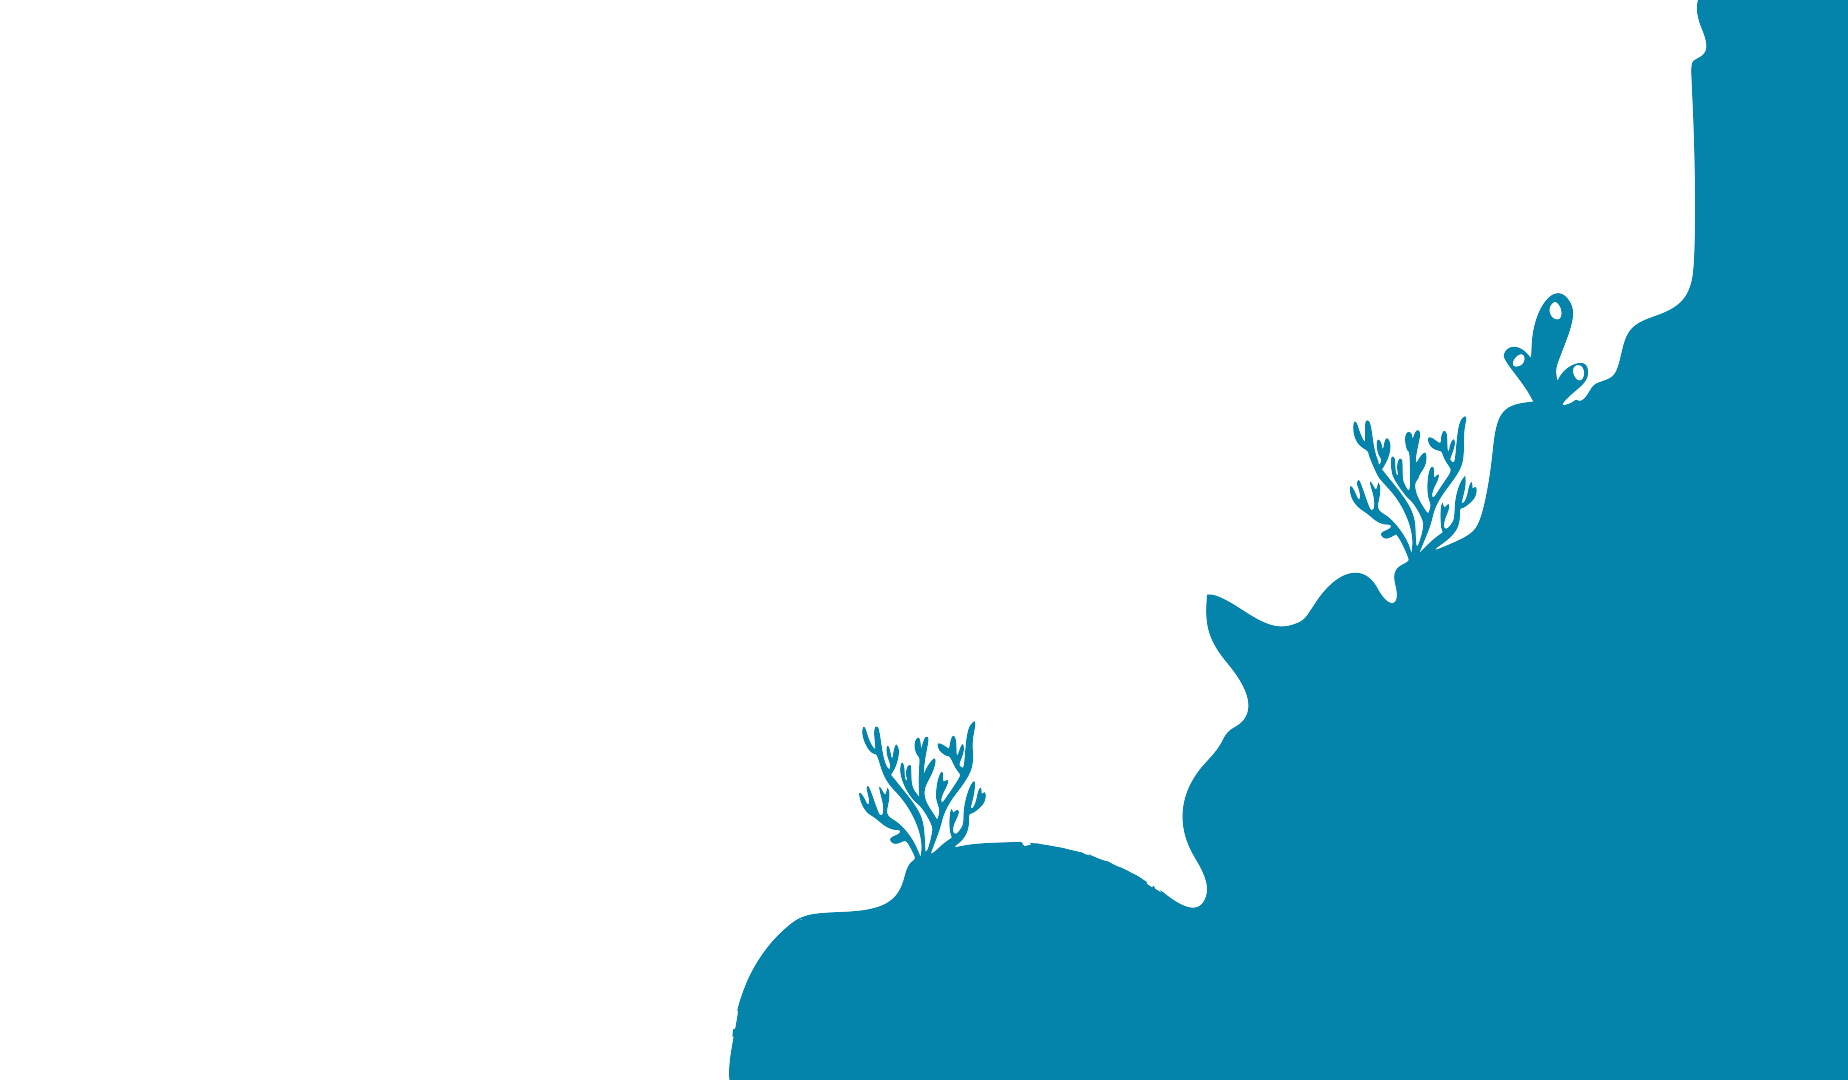
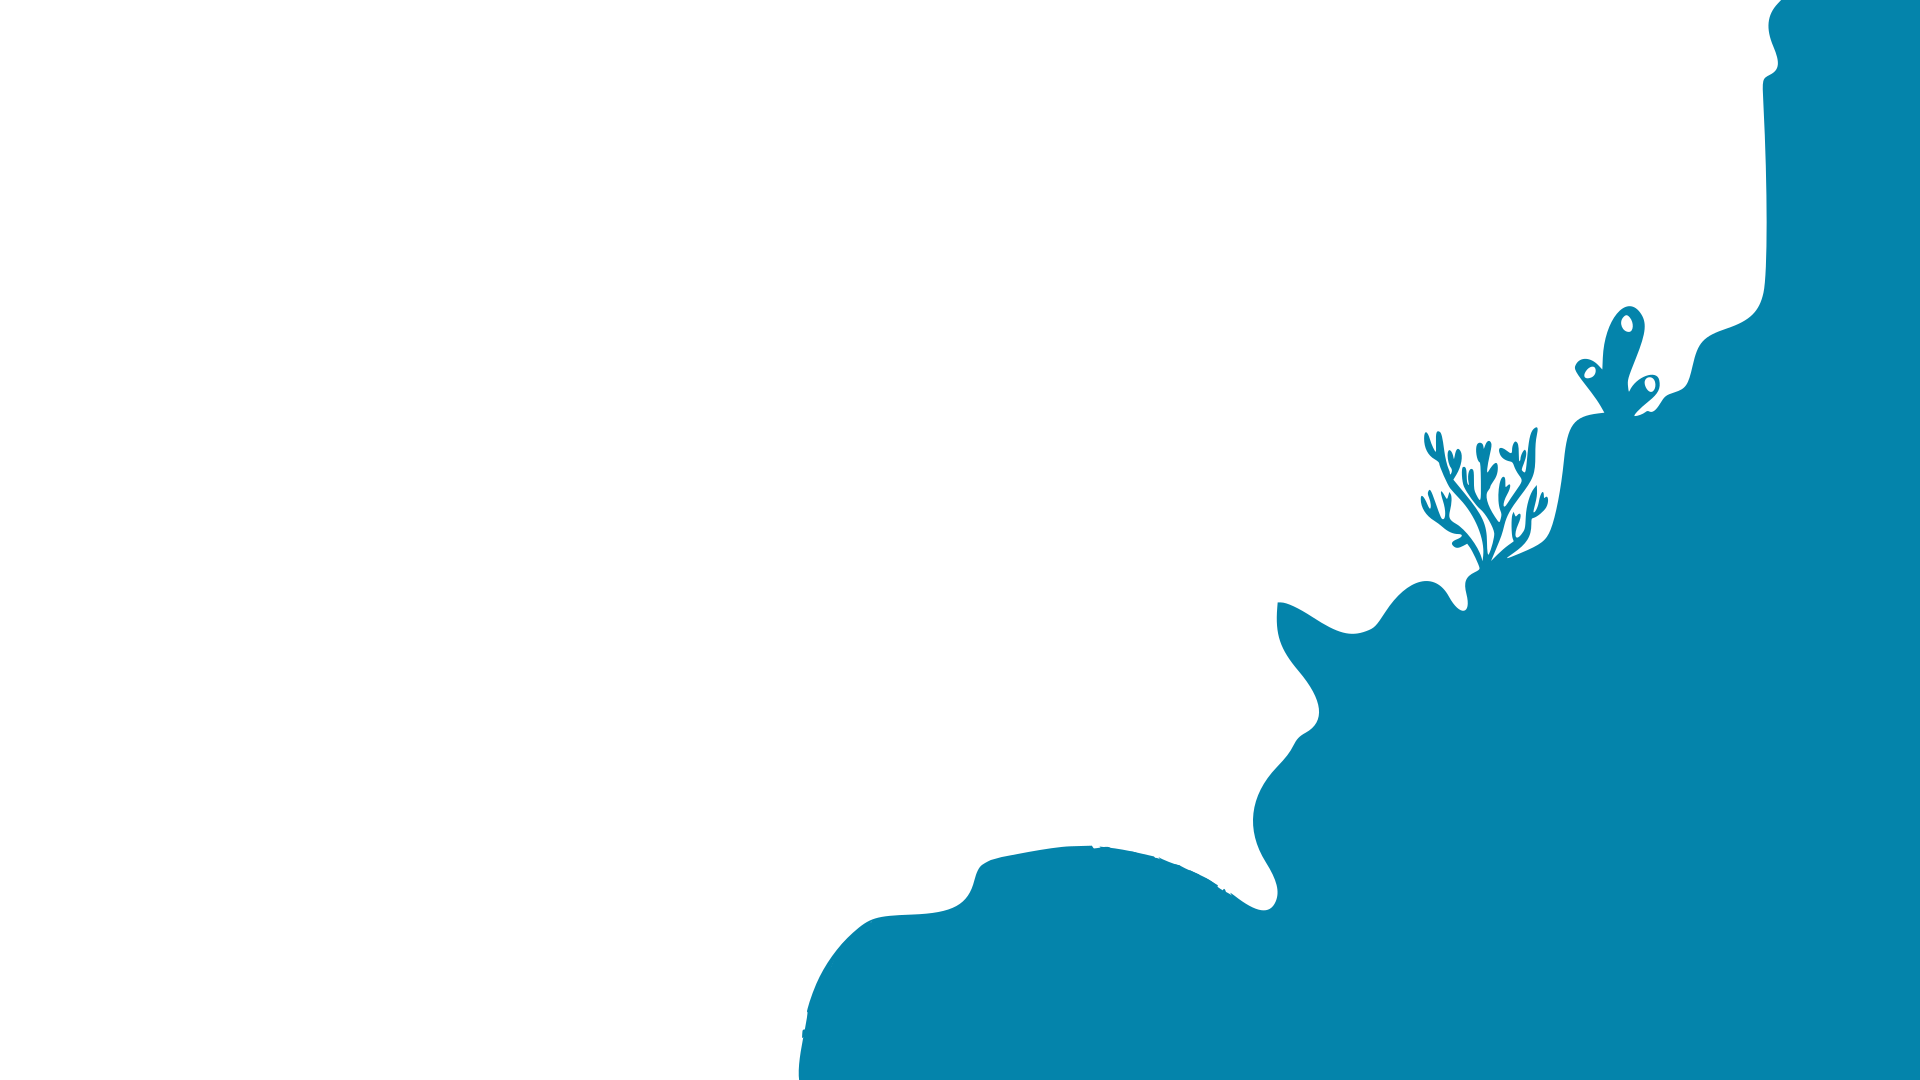
fixed the autoscroll name further and some adjustments to the list and one image layer.

Changed region(s): [[0.586, 0.1222, 0.9253, 0.8556], [0.3701, 0.6722, 0.5552, 1.0], [0.8945, 0.0, 0.9253, 0.0917]]

diff --git a/index.html b/index.html
@@ -32,7 +32,7 @@
                 <div class="name-bar" style="display: inline-flex;">
                     <div style="display: inline-block; padding-bottom: 20px;"><span>&copy;</span></div>
                     <div class="btn btn-link btn-left-top" style="display: inline-block;">
-                        <a href="https://namith.vercel.app" class="btn-click" style="display: flex; align-items: center; justify-content: center;">
+                        <a  class="btn-click" style="display: flex; align-items: center; justify-content: center;">
                             <span class="btn-text" style="display: flex; align-items: center; justify-content: center; padding-bottom: 20px;">
                                 <div class="cbn" style="display: flex; align-items: center; justify-content: center;">
                                     <span class="code-by" style="text-align: center;">Created By </span>
@@ -56,15 +56,18 @@
         </div>
 
         <div id="hero">  
-          <img src="img/path0.png" class="parallax-layer layer" data-speed="0.1" style="z-index: 2;"/>
+          <img src="img/path0.png" class="parallax-layer layer" data-speed="0" style="z-index: 2;"/>
           <img src="img/path1.png" class="parallax-layer layer" data-speed="0.2" style="z-index: 3;"/>
-          <div class="scroll-container">
-            <h1 class="autoscroll" style="margin: 0;">NAMITH NIMLAKA - Sofware Developer</h1>
+          <div class="big-name">
+              <div class="name-wrap">
+                <h1 class="no-select"> Namith Nimlaka - Software Developer -</h1>
+              </div>
           </div>
-          <img src="img/path3.png" class="parallax-layer layer" data-speed="0.4" style="z-index: 4;"/>
+
+          <img src="img/path3.png" class="parallax-layer layer" data-speed="0.3" style="z-index: 4;"/>
           <div style="z-index: 5;" class="parallax-layer layerspecial">
             <img src="img/path23.png" class="parallax-layer layerspecial" data-speed="0.6" style="z-index: 5;"/>
-            <div style="background-color: #024a6b; width: 100%; height: 700px; bottom: -695px; position: absolute; justify-content: center; align-items: center; font-size: x-large;" class="parallax-layer" data-speed="0.6" style="z-index: 5;" >
+            <div style="background-color: #024a6b; width: 100%; height: 1200px; bottom: -1195px; position: absolute; justify-content: center; align-items: center; font-size: x-large;" class="parallax-layer" data-speed="0.6" style="z-index: 5;" >
             </div>
           </div>
          </div>
@@ -75,26 +78,26 @@
     <div id="page2">
 
         <div id="content-page2">
-          <h1 style="margin-left: 5%; margin-right: 5%; font-size: medium;">Projects </h1>
-          <div style="margin-left: 5%; margin-right: 5%;" class="item-line"></div>
+          <h1 style="font-size: x-large; font-style: bold;">Projects </h1>
+          <div class="project-line"></div>
         </div>
 
-        <div class="item-list">
-          <div class="item" data-image="img/app.jpg">
-            <div class="item-name">OutWork</div>
-            <div class="item-line"></div>
+        <div class="project-list">
+          <div class="project" data-image="img/app.jpg">
+            <div class="project-name">OutWork</div>
+            <div class="project-line"></div>
           </div>
-          <div class="item" data-image="img/me.jpg">
-            <div class="item-name">SEMS</div>
-            <div class="item-line"></div>
+          <div class="project" data-image="img/me.jpg">
+            <div class="project-name">SEMS</div>
+            <div class="project-line"></div>
           </div>
-          <div class="item" data-image="path/to/mobot-image.jpg">
-            <div class="item-name">MoBot</div>
-            <div class="item-line"></div>
+          <div class="project" data-image="path/to/mobot-image.jpg">
+            <div class="project-name">MoBot</div>
+            <div class="project-line"></div>
           </div>
-          <div class="item" data-image="path/to/modalicious-image.jpg">
-            <div class="item-name">Modalicious</div>
-            <div class="item-line"></div>
+          <div class="project" data-image="path/to/modalicious-image.jpg">
+            <div class="project-name">Modalicious</div>
+            <div class="project-line"></div>
           </div>
         </div>
       

diff --git a/autoscroll.js b/autoscroll.js
@@ -1,19 +1,59 @@
-gsap.registerPlugin(ScrollTrigger);
 
-const text = document.querySelector('.autoscroll');
-const container = document.querySelector('.scroll-container');
+function initScrollLetters() {
+  let direction = 1; // 1 = forward, -1 = backward scroll
+  const rollContainer = roll(".big-name .name-wrap", {duration: 40});
 
-let lastScrollTop = 0;
-let direction = 1;
-let position = -51.7; // first move to the end position
+  
+  // check the direction of the body and adjust the scrolling direction for the name 
+  const scroll = ScrollTrigger.create({
+    trigger: document.body,
+    onUpdate(scroller) {
+      if (scroller.direction !== direction) {
+        direction *= -1;
+        gsap.to(rollContainer, {timeScale: direction, overwrite: true});
+      }
+    }
+  });
 
-gsap.to (text,{
-  transform: `translateX(${position}%)`,
-  scrollTrigger: {
-    trigger: "#page1",
-    scroller: "body",
-    start: "top 0%",
-    end: "bottom 99%",
-    scrub: 5,
+  function roll(targets, vars) {
+    vars = vars || {};
+    vars.ease || (vars.ease = "none");
+    const tl = gsap.timeline({
+      repeat: -1,
+      onReverseComplete() { 
+        this.totalTime(this.rawTime() + this.duration() * 10);
+      }
+    });
+    
+    const elements = gsap.utils.toArray(targets);
+    const clones = elements.map(el => {
+      let clone = el.cloneNode(true);
+      el.parentNode.appendChild(clone);
+      return clone;
+    });
+
+    const positionClones = () => elements.forEach((el, i) => gsap.set(clones[i], {
+      position: "absolute",
+      overwrite: false,
+      top: el.offsetTop,
+      left: el.offsetLeft + el.offsetWidth
+    }));
+
+    positionClones();
+    elements.forEach((el, i) => tl.to([el, clones[i]], {xPercent: -100, ...vars}, 0));
+
+    window.addEventListener("resize", () => {
+      let time = tl.totalTime();
+      tl.totalTime(0);
+      positionClones();
+      tl.totalTime(time);
+    });
+
+    return tl;
   }
-});
+
+  rollContainer.play();
+}
+
+// Initialize the scroll letters effect
+initScrollLetters();

diff --git a/list.css b/list.css
@@ -1,46 +1,45 @@
 #content-page2 {
-    width: 100%;
+    width: 95%;
     text-align: start;
     justify-content: start;
     align-items: center;
-    margin-bottom: 10px;
     color: gray;
 }
 
-.item-list {
+.project-list {
     display: flex;
     flex-direction: column;
     justify-content: center;
     align-items: center;
     width: 95%;
-    overflow-y: auto;
+    overflow: hidden;
 }
 
-.item {
-    width: 95%;
+.project {
+    width: 100%;
     margin-bottom: 20px;
     justify-content: center;
     align-items: center;
     z-index: 1;
 }
 
-.item-name {
+.project-name {
     font-size: 8vw; /* Adjusted big font size */
     font-weight: bold;
     color: white;
     margin-bottom: 5px;
 }
 
-.item-line {
+.project-line {
     height: 2px; /* Line thickness */
     background-color: gray; /* Line color */
-    width: 95%;
+    width: 100%;
     z-index: 1;
 }
 
 /* Responsive design */
 @media (max-width: 600px) {
-    .item-name {
+    .project-name {
         font-size: 2em;
     }
 }

diff --git a/navbar.js b/navbar.js
@@ -43,9 +43,12 @@ document.addEventListener("DOMContentLoaded", function() {
 document.addEventListener("DOMContentLoaded", function() {
     const btnClick = document.querySelector('.name-bar');
     const cbd = document.querySelector('.cbn');
+    const cb = document.querySelector('.code-by');
+
+    cbWidth = cb.offsetWidth;
 
     btnClick.addEventListener('mouseenter', () => {
-        gsap.to(cbd, { x: -128, duration: 1, ease: "power1.inOut" }); // Adjust to ensure it stops before the copyright symbol
+        gsap.to(cbd, { x: -cbWidth, duration: 1, ease: "power1.inOut" }); // Adjust to ensure it stops before the copyright symbol
     });
 
     btnClick.addEventListener('mouseleave', () => {
@@ -64,7 +67,7 @@ document.addEventListener('DOMContentLoaded', function() {
         });
 
         element.addEventListener('mouseleave', () => {
-            gsap.to(element, { opacity: 0.6, duration: 0.3 });
+            gsap.to(element, { opacity: 0.8, duration: 0.3 });
         });
     });
     

diff --git a/list.js b/list.js
@@ -4,12 +4,12 @@ const cursor = document.querySelector('.cursor');
 const cursorDot = document.querySelector('.cursor-dot');
 const cursorCircle = document.querySelector('.cursor-circle');
 const cursorImage = document.querySelector('.cursor-image');
-const items = document.querySelectorAll('.item');
+const projects = document.querySelectorAll('.project');
 
-// Item hover effect
-items.forEach(item => {
-  item.addEventListener('mouseenter', () => {
-    const imageUrl = item.getAttribute('data-image');
+// project hover effect
+projects.forEach(project => {
+  project.addEventListener('mouseenter', () => {
+    const imageUrl = project.getAttribute('data-image');
     
     gsap.to(cursor, {
       width: 100,
@@ -47,7 +47,7 @@ items.forEach(item => {
     cursorImage.style.backgroundImage = `url(${imageUrl})`;
   });
 
-  item.addEventListener('mouseleave', () => {
+  project.addEventListener('mouseleave', () => {
 
     cursorImage.style.backgroundImage = `none`;
     gsap.to(cursor, {

diff --git a/styles.css b/styles.css
@@ -33,13 +33,13 @@ body {
 #page1 {    
     height: 100vh;
     width: 100%;
-    scrollbar-width: none; /* Hide default scrollbar in Firefox */
+    scrollbar-width: none;
 }
 
 #page2 {    
     height: auto;
     width: 100%;
-    scrollbar-width: none; /* Hide default scrollbar in Firefox */
+    scrollbar-width: none; 
     background-color: #024a6b;
     display: flex;
     flex-direction: column;
@@ -82,14 +82,14 @@ body {
 #hero {
     position: absolute;
     top: 0;
-    width: 100vw;
+    width: 100%;
     height: 100vh;
     z-index: -1;
 }
 
 .parallax-layer {
     position: absolute;
-    width: 100vw;
+    width: 100%;
     height: 100vh;
 }
 
@@ -99,8 +99,7 @@ body {
 
 /* Default styles for .layerspecial */
 .layerspecial {
-    top: 0px;
-    width: 100vw;
+    bottom: -70px;
     height: 104vh;
     object-fit: cover;
 }
@@ -125,3 +124,7 @@ body {
     color: #282c34; /* Change text color on hover */
     cursor: default;
 }
+
+
+
+

diff --git a/autoscroll.css b/autoscroll.css
@@ -1,18 +1,28 @@
-.scroll-container {
-  position: absolute;
-  top: 45%;
-  left: 0;
-  width: 100vw;
-  z-index: 5;
+.big-name {
   overflow: hidden;
+  width: 100%;
+  white-space: nowrap;
+  position: absolute;
+  z-index: 5;
+  bottom: 12%
 }
 
-.autoscroll {
-  font-size: 11vw;
-  color: white;
-  margin: 0;
-  padding: 0;
-  z-index: 5;
-  white-space: nowrap;
+.name-wrap {
   display: inline-block;
+}
+
+.no-select {
+  user-select: none;
+  font-size: 11vmax;
+  font-weight: bold;
+  z-index: 5;
+}
+
+.spacer {
+  margin-left: 1rem;
+}
+
+.no-select::before {
+  content: " "; 
+  white-space: pre; 
 }

diff --git a/navbar.css b/navbar.css
@@ -25,7 +25,7 @@
 }
 
 #sections h4 {
-    opacity: 0.6;
+    opacity: 0.8;
     font-size: 24px;
 }
 
@@ -54,6 +54,7 @@
     display: flex;
     align-items: center;
     transition: transform 0.5s ease-out;
+    font-size: 1em;
 }
 
 .credit, .cbn {

diff --git a/script.js b/script.js
@@ -78,3 +78,6 @@ circleTL.to(circle, {
     duration: 0.3,
     ease: "ease-in"
 });
+
+
+
